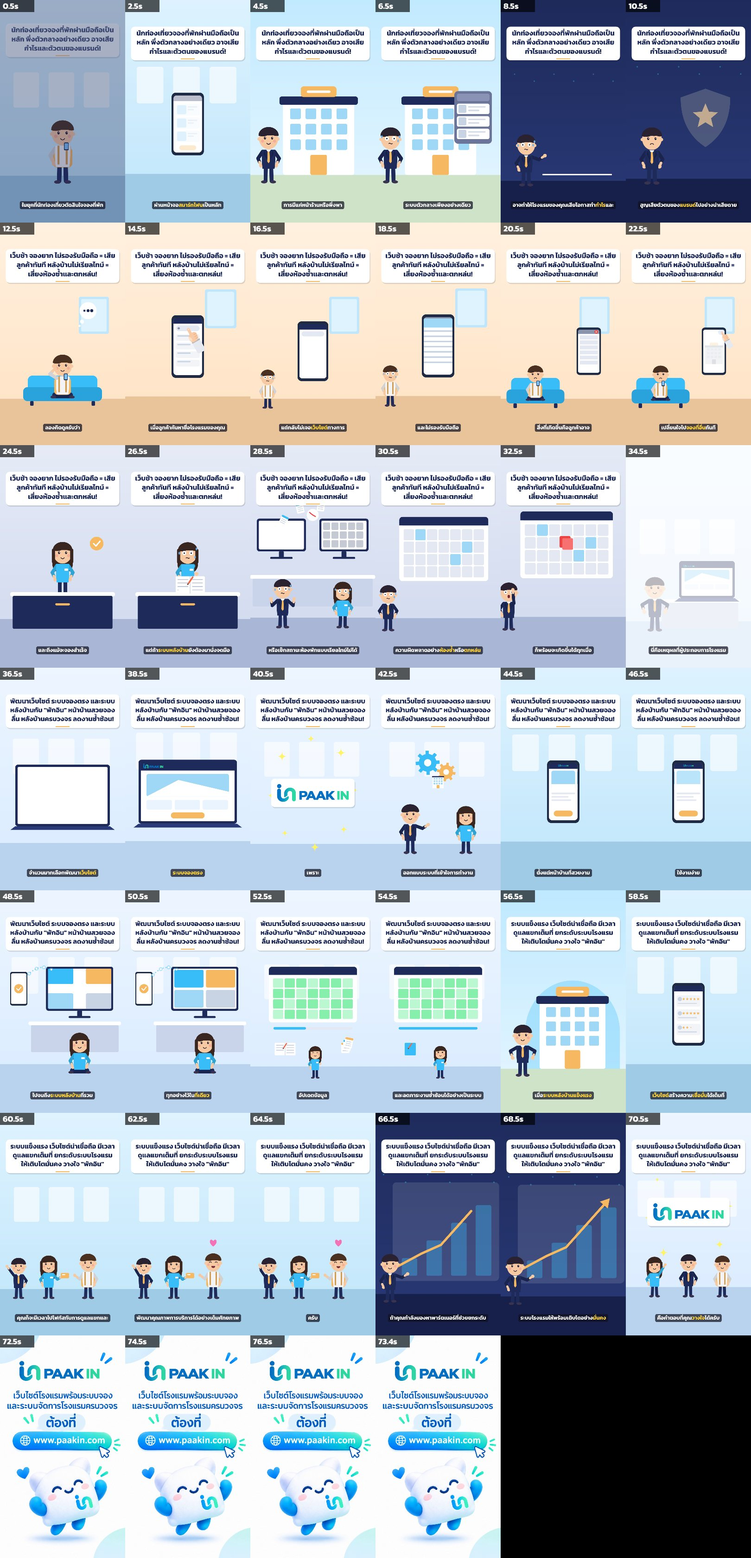
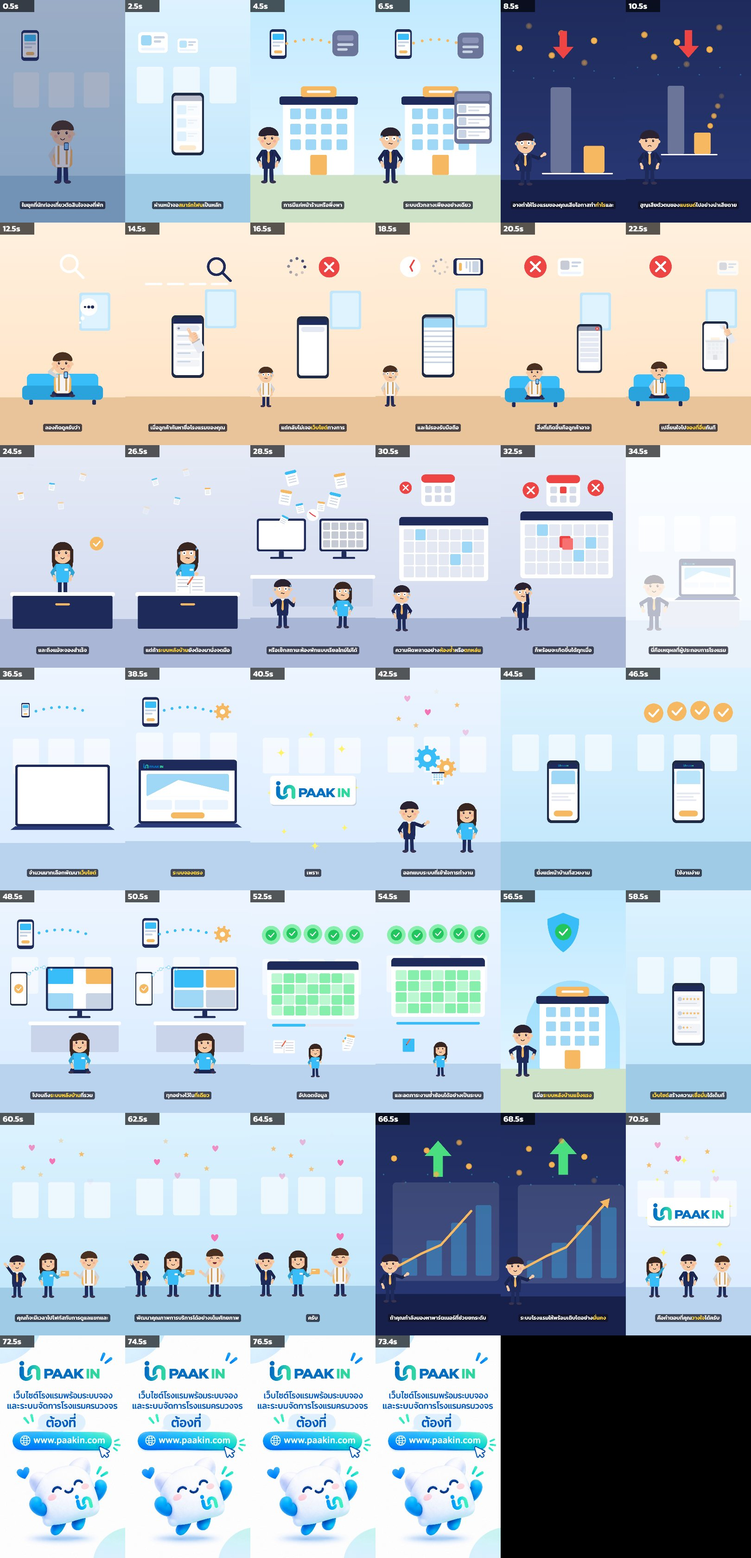
why-paakin: เอาการ์ดหัวข้อออก ใส่แอนิเมชันไอคอนแทน + บทเรียน L22
Claude-Session: https://claude.ai/code/session_01CrCPkFCVZwvw9KcpJnuXPU

diff --git a/jobs/20261122-why-paakin/shots.js b/jobs/20261122-why-paakin/shots.js
@@ -1,15 +1,11 @@
-// ทำไมต้องพักอิน — 26 ช็อตตาม shotlist.md (ข้อความในภาพมีแค่ H1–H4; UI ใช้แท่ง/ไอคอน L12)
+// ทำไมต้องพักอิน — 26 ช็อต; ไม่มีการ์ดหัวข้อ ด้านบนใช้แอนิเมชันไอคอน (ไม่มีข้อความ L12/L17)
 export default function (S) {
   const { shot, T, TW, prog, clamp, drawChar, logo, W, H,
-    headerCard, bizRoom, hotelFront, barChart, coin, iconBrand, star, spinner, xIcon, counter, notebook,
+    bizRoom, hotelFront, barChart, coin, iconBrand, star, spinner, xIcon, counter, notebook,
     fileIcon, monitor, laptop, siteMock, roomCalendar, syncLine, goldCheck, gear, growthChart, heart, keyCard, thinkIcon,
     sofa, bizDesk, phoneScreen, logoCard, check, sparkles } = S;
   S.keywords(['พักอิน', 'สมาร์ทโฟน', 'กำไร', 'แบรนด์', 'เว็บไซต์', 'จองที่อื่น', 'ห้องซ้ำ', 'ตกหล่น', 'ระบบจองตรง', 'ระบบหลังบ้าน', 'ที่เดียว', 'แข็งแรง', 'เชื่อมั่น', 'มั่นคง', 'วางใจ']);
 
-  const H1 = 'นักท่องเที่ยวจองที่พักผ่านมือถือเป็นหลัก พึ่งตัวกลางอย่างเดียว อาจเสียกำไรและตัวตนของแบรนด์!';
-  const H2 = 'เว็บช้า จองยาก ไม่รองรับมือถือ = เสียลูกค้าทันที หลังบ้านไม่เรียลไทม์ = เสี่ยงห้องซ้ำและตกหล่น!';
-  const H3 = 'พัฒนาเว็บไซต์ ระบบจองตรง และระบบหลังบ้านกับ "พักอิน" หน้าบ้านสวยจองลื่น หลังบ้านครบวงจร ลดงานซ้ำซ้อน!';
-  const H4 = 'ระบบแข็งแรง เว็บไซต์น่าเชื่อถือ มีเวลาดูแลแขกเต็มที่ ยกระดับระบบโรงแรมให้เติบโตมั่นคง วางใจ "พักอิน"';
   const NAVY = '#1e2a5a', SKYB = '#38bdf8', GOLD = '#f6b860';
   const on = (t, a, d = 0.4) => prog(t, a, d);
   const R = (ctx, x, y, w, h, r, c) => { ctx.fillStyle = c; ctx.beginPath(); ctx.roundRect(x, y, w, h, r); ctx.fill(); };
@@ -17,16 +13,52 @@ export default function (S) {
   // ทรานสิชัน (overlay ไม่ขยับตามกล้อง)
   const fadeFrom = (ctx, t, t0, color, d = 0.5) => { const a = 1 - prog(t, t0, d); if (a > 0) { ctx.fillStyle = color; ctx.globalAlpha = a; ctx.fillRect(0, 0, W, H); ctx.globalAlpha = 1; } };
   const slideFrom = (ctx, t, t0, dir = -1, d = 0.45) => { const k = prog(t, t0, d); if (k < 1) { ctx.fillStyle = NAVY; ctx.fillRect(dir < 0 ? -W * k : W * k, 0, W, H); } };
-  const hdr = (text, t0) => (ctx, lt, t) => headerCard(ctx, text, { k: on(t, t0, 0.5) });
-  const hold = (text) => (ctx) => headerCard(ctx, text, { k: 1 });
   const ov = (...fs) => (ctx, lt, t) => fs.forEach((f) => f(ctx, lt, t));
+
+  // ===== แอนิเมชันโซนบน (screen space y≈170–600) แทนการ์ดหัวข้อ =====
+  const pop = (t, t0, d = 0.45) => { const k = prog(t, t0, d); return k <= 0 ? 0 : k >= 1 ? 1 : 1 + Math.sin(k * Math.PI) * 0.25 * (1 - k) + (k - 1) * 0.0 - (1 - k) * (1 - k) * 0.6; };
+  const bob = (t, i, a = 14) => Math.sin(t * 2.2 + i * 1.7) * a;
+  const at = (ctx, x, y, sc, f) => { if (sc <= 0) return; sc *= 1.6; ctx.save(); ctx.translate(x, y); ctx.scale(sc, sc); f(ctx); ctx.restore(); };
+  const miniPhone = (c, col = SKYB) => { R(c, -46, -80, 92, 160, 18, NAVY); R(c, -38, -66, 76, 128, 8, '#ffffff'); R(c, -30, -56, 60, 34, 6, col); R(c, -30, -14, 60, 10, 5, '#c8d3e3'); R(c, -30, 4, 40, 10, 5, '#c8d3e3'); R(c, -22, 34, 44, 16, 8, GOLD); };
+  const appCard = (c, col = '#9fd8f7') => { R(c, -80, -56, 160, 112, 20, '#ffffff'); R(c, -64, -40, 56, 56, 12, col); R(c, 4, -34, 60, 12, 6, '#c8d3e3'); R(c, 4, -12, 40, 12, 6, '#c8d3e3'); R(c, -64, 28, 128, 14, 7, '#eaf4ff'); };
+  const grayApp = (c) => { R(c, -70, -70, 140, 140, 30, '#6b7499'); R(c, -44, -44, 88, 30, 10, '#8a93b5'); R(c, -44, 0, 88, 14, 7, '#c8d3e3'); R(c, -44, 26, 56, 14, 7, '#c8d3e3'); };
+  const mag = (c, col = '#ffffff') => { c.strokeStyle = col; c.lineWidth = 14; c.lineCap = 'round'; c.beginPath(); c.arc(0, 0, 44, 0, 7); c.stroke(); c.beginPath(); c.moveTo(32, 32); c.lineTo(76, 76); c.stroke(); };
+  const clock = (c, t, col = '#ef4444') => { c.fillStyle = '#ffffff'; c.beginPath(); c.arc(0, 0, 56, 0, 7); c.fill(); c.strokeStyle = col; c.lineWidth = 9; c.lineCap = 'round'; c.beginPath(); c.moveTo(0, 0); c.lineTo(Math.cos(t * 3) * 40, Math.sin(t * 3) * 40); c.moveTo(0, 0); c.lineTo(Math.cos(t * 0.4) * 24, Math.sin(t * 0.4) * 24); c.stroke(); };
+  const calIcon = (c, blink) => { R(c, -70, -60, 140, 130, 18, '#ffffff'); R(c, -70, -60, 140, 34, 18, '#ef4444'); for (let r = 0; r < 2; r++) for (let q = 0; q < 3; q++) R(c, -54 + q * 40, -12 + r * 38, 28, 28, 6, r === 0 && q === 1 && blink ? '#ef4444' : '#d5dbe8'); };
+  const arrowUp = (c, col = '#4ade80') => { c.fillStyle = col; c.beginPath(); c.moveTo(0, -80); c.lineTo(56, -16); c.lineTo(20, -16); c.lineTo(20, 70); c.lineTo(-20, 70); c.lineTo(-20, -16); c.lineTo(-56, -16); c.closePath(); c.fill(); };
+  const arrowDn = (c) => { c.save(); c.rotate(Math.PI); arrowUp(c, '#ef4444'); c.restore(); };
+  const shield = (c) => { c.fillStyle = SKYB; c.beginPath(); c.moveTo(0, -80); c.lineTo(66, -54); c.quadraticCurveTo(66, 40, 0, 84); c.quadraticCurveTo(-66, 40, -66, -54); c.closePath(); c.fill(); check(c, 0, 0, 34); };
+  const flowDots = (ctx, t, x1, x2, y, col = SKYB, n = 6, k = 1) => { for (let i = 0; i < n; i++) { const u = ((t * 0.6) + i / n) % 1; ctx.globalAlpha = k * Math.sin(u * Math.PI); ctx.fillStyle = col; ctx.beginPath(); ctx.arc(x1 + (x2 - x1) * u, y - Math.sin(u * Math.PI) * 40, 12, 0, 7); ctx.fill(); } ctx.globalAlpha = 1; };
+  const rise = (ctx, t, t0, f, n = 5, x0 = 200, x1 = 880, y0 = 600, y1 = 190) => { const k = prog(t, t0, 0.6); for (let i = 0; i < n; i++) { const u = ((t - t0) * 0.35 + i / n) % 1; ctx.globalAlpha = k * Math.sin(u * Math.PI); f(ctx, x0 + (x1 - x0) * ((i * 0.37) % 1), y0 + (y1 - y0) * u, i); } ctx.globalAlpha = 1; };
+  const FX = {
+    phones: (s0) => (ctx, lt, t) => [260, 540, 820].forEach((x, i) => at(ctx, x, 380 + bob(t, i), pop(t, s0 + 0.2 + i * 0.25) * (i === 1 ? 1.4 : 1.1), miniPhone)),
+    apps: (s0) => (ctx, lt, t) => { [240, 540, 840].forEach((x, i) => at(ctx, x, 380 + bob(t, i, 18), pop(t, s0 + 0.15 + i * 0.2), (c) => appCard(c, ['#9fd8f7', '#b9e4fa', '#7cc8f0'][i]))); star(ctx, 540 + Math.cos(t * 2) * 330, 230 + Math.sin(t * 2) * 30, 18 * prog(t, s0 + 0.8), GOLD); },
+    middle: (s0) => (ctx, lt, t) => { at(ctx, 820, 380 + bob(t, 0), pop(t, s0 + 0.3), grayApp); at(ctx, 240, 380, pop(t, s0 + 0.1), miniPhone); flowDots(ctx, t, 300, 740, 380, GOLD, 6, prog(t, s0 + 0.7)); },
+    loss: (s0) => (ctx, lt, t) => { rise(ctx, t, s0 + 0.2, (c, x, y) => coin(c, x, y, 28), 6, 160, 920, 200, 580); at(ctx, 540, 380 + bob(t, 0, 10), pop(t, s0 + 0.5), arrowDn); },
+    think: (s0) => (ctx, lt, t) => at(ctx, 540 + Math.cos(t * 1.4) * 260, 380 + Math.sin(t * 2.8) * 60, pop(t, s0 + 0.2), (c) => mag(c, '#ffffff')),
+    search: (s0) => (ctx, lt, t) => { at(ctx, 540 + Math.sin(t * 1.8) * 300, 380, pop(t, s0 + 0.1), (c) => mag(c, NAVY)); for (let i = 0; i < 4; i++) R(ctx, 170 + i * 190, 520, 150, 20, 10, `rgba(30,42,90,${0.25 * prog(t, s0 + 0.4 + i * 0.15)})`); },
+    nosite: (s0) => (ctx, lt, t) => { spinner(ctx, { x: 400, y: 380, r: 70, t, color: NAVY }); at(ctx, 680, 380 + bob(t, 1), pop(t, s0 + 1.0), (c) => xIcon(c, 0, 0, 56)); },
+    slow: (s0) => (ctx, lt, t) => { at(ctx, 300, 380 + bob(t, 0), pop(t, s0 + 0.1), (c) => clock(c, t)); spinner(ctx, { x: 560, y: 380, r: 60, t: t * 0.4, color: '#8a95ad' }); at(ctx, 800, 380 + bob(t, 2), pop(t, s0 + 0.5), (c) => { c.save(); c.rotate(Math.PI / 2); miniPhone(c, '#c8d3e3'); c.restore(); }); },
+    leave: (s0) => (ctx, lt, t) => { at(ctx, 300, 380, pop(t, s0 + 0.2), (c) => xIcon(c, 0, 0, 60)); const u = prog(t, s0 + 0.5, 1.2); at(ctx, 560 + 320 * u, 380 + bob(t, 1), 1 - 0.2 * u, (c) => { c.globalAlpha = 1 - 0.3 * u; c.save(); c.scale(0.9, 0.9); appCard(c, '#c4c9d4'); c.restore(); c.globalAlpha = 1; }); },
+    write: (s0) => (ctx, lt, t) => rise(ctx, t, s0 + 0.2, (c, x, y, i) => fileIcon(c, x, y, 0.5, i % 2 ? SKYB : GOLD, Math.sin(t + i) * 0.3), 5, 180, 900, 600, 190),
+    files: (s0) => (ctx, lt, t) => { for (let i = 0; i < 4; i++) { const a = t * 1.3 + i * Math.PI / 2; fileIcon(ctx, 540 + Math.cos(a) * 300, 380 + Math.sin(a) * 120, 0.55 * prog(t, s0 + 0.1 * i), i % 2 ? SKYB : GOLD, Math.sin(a) * 0.3); } },
+    clash: (s0) => (ctx, lt, t) => { const bl = Math.sin(t * 8) > 0; at(ctx, 540, 380 + Math.sin(t * 30) * (t > s0 + 0.5 ? 3 : 0), pop(t, s0 + 0.1) * 1.3, (c) => calIcon(c, bl)); [260, 820].forEach((x, i) => at(ctx, x, 380 + bob(t, i), pop(t, s0 + 0.4 + i * 0.2) * (bl ? 1 : 0.85), (c) => xIcon(c, 0, 0, 44))); },
+    gears: (s0) => (ctx, lt, t) => { const k = prog(t, s0 + 0.3, 0.6); gear(ctx, 430, 360, 80 * k, t, SKYB); gear(ctx, 570, 430, 60 * k, -t * 1.33 + 0.3, GOLD); sparkles(ctx, { x: 500, y: 390, r: 260, t, k }); },
+    sync: (s0) => (ctx, lt, t) => { at(ctx, 220, 380 + bob(t, 0), pop(t, s0 + 0.1), miniPhone); flowDots(ctx, t, 290, 760, 380, SKYB, 7, prog(t, s0 + 0.4)); gear(ctx, 840, 380, 64 * prog(t, s0 + 0.6, 0.5), t, GOLD); },
+    stars: (s0) => (ctx, lt, t) => { for (let i = 0; i < 6; i++) { const a = t * 0.8 + i * Math.PI / 3; star(ctx, 540 + Math.cos(a) * 380, 360 + Math.sin(a) * 120, 26 * prog(t, s0 + 0.2 + i * 0.1), i % 2 ? GOLD : '#ffffff'); } },
+    hearts: (s0) => (ctx, lt, t) => rise(ctx, t, s0 + 0.2, (c, x, y, i) => (i % 2 ? heart(c, x, y, 30) : star(c, x, y, 26, GOLD)), 7),
+    checks: (s0) => (ctx, lt, t) => { [240, 440, 640, 840].forEach((x, i) => at(ctx, x, 380 + bob(t, i, 12), 1, (c) => goldCheck(c, 0, 0, 52, prog(t, s0 + 0.2 + i * 0.3, 0.4)))); },
+    greens: (s0) => (ctx, lt, t) => { for (let i = 0; i < 5; i++) at(ctx, 180 + i * 180, 380 + bob(t, i, 10), pop(t, s0 + 0.2 + i * 0.25), (c) => { c.fillStyle = '#86efac'; c.beginPath(); c.arc(0, 0, 50, 0, 7); c.fill(); check(c, 0, 0, 30); }); },
+    shield: (s0) => (ctx, lt, t) => { at(ctx, 540, 370 + bob(t, 0, 10), pop(t, s0 + 0.4) * 1.3, shield); for (let i = 0; i < 6; i++) { const a = t * 0.9 + i * Math.PI / 3; star(ctx, 540 + Math.cos(a) * 260, 370 + Math.sin(a) * 140, 20 * prog(t, s0 + 0.8), GOLD); } },
+    grow: (s0) => (ctx, lt, t) => { at(ctx, 540, 390 + bob(t, 0, 16), pop(t, s0 + 0.3) * 1.3, (c) => arrowUp(c)); rise(ctx, t, s0 + 0.5, (c, x, y) => coin(c, x, y, 26), 6, 160, 920); },
+  };
 
   // ===== ฉาก 1 บริบท =====
   // 1 traveler ในล็อบบี้
   shot(T(0), (ctx, lt, t) => {
     bizRoom(ctx, 'lobby');
     drawChar(ctx, 'traveler', { x: 540, y: 1580, scale: 1.45, expr: 'happy', arms: { r: 'phone' }, prop: { type: 'phone' } });
-  }, { cam: (lt) => ({ x: 540, y: 1150, zoom: 1 + lt * 0.03 }), overlay: ov(hdr(H1, T(0) + 0.2), (ctx, lt, t) => fadeFrom(ctx, t, T(0), NAVY, 0.6)) });
+  }, { cam: (lt) => ({ x: 540, y: 1150, zoom: 1 + lt * 0.03 }), overlay: ov(FX.phones(T(0)), (ctx, lt, t) => fadeFrom(ctx, t, T(0), NAVY, 0.6)) });
 
   // 2 close มือถือ — การ์ดห้อง + แตะปุ่มส้ม
   shot(T(1), (ctx, lt, t) => {
@@ -38,7 +70,7 @@ export default function (S) {
       for (let i = 0; i < 3; i++) { const yy = -210 + i * 140 - 40 * lit; R(c, -125, yy, 250, 120, 16, '#eaf4ff'); R(c, -112, yy + 12, 96, 96, 12, '#9fd8f7'); R(c, 0, yy + 24, 100, 14, 7, '#c8d3e3'); R(c, 0, yy + 52, 64, 14, 7, '#c8d3e3'); }
       R(c, -90, 225, 180, 50, 25, GOLD); c.globalAlpha = 1;
     }, tap: t > tp - 0.3 ? { x: 0, y: 250, ring: prog(t, tp, 0.5), sleeve } : null });
-  }, { cam: { x: 540, y: 1110, zoom: 1.05 }, overlay: hold(H1) });
+  }, { cam: { x: 540, y: 1110, zoom: 1.05 }, overlay: FX.apps(T(1)) });
 
   // 3 หน้าโรงแรม + ไอคอนตัวกลาง
   shot(T(2), (ctx, lt, t) => {
@@ -50,7 +82,7 @@ export default function (S) {
       for (let i = 0; i < 3; i++) { R(ctx, -130, -110 + i * 100, 260, 84, 14, '#ffffff'); R(ctx, -118, -100 + i * 100, 64, 64, 10, '#c8d3e3'); R(ctx, -40, -90 + i * 100, 140, 12, 6, '#d5dbe8'); R(ctx, -40, -62 + i * 100, 90, 12, 6, '#d5dbe8'); }
       ctx.restore(); }
     drawChar(ctx, 'owner', { x: 200, y: 1600, scale: 1.2, expr: t > T(3) ? 'sweat' : 'happy' });
-  }, { cam: (lt) => ({ x: 540 + Math.min(lt, 2) * 20, y: 1100, zoom: 1.08 }), overlay: hold(H1) });
+  }, { cam: (lt) => ({ x: 540 + Math.min(lt, 2) * 20, y: 1100, zoom: 1.08 }), overlay: FX.middle(T(2)) });
 
   // 4 กราฟกำไร + แบรนด์จาง (ช็อตเดียว T(4)→T(7) ไม่ตัดภาพ)
   shot(T(4), (ctx, lt, t) => {
@@ -65,7 +97,7 @@ export default function (S) {
     ctx.restore();
     const ma = on(t, tb + 0.6, 0.5); if (ma > 0) { ctx.globalAlpha = ma; iconBrand(ctx, { x: 820, y: 1300, s: 0.9, fade: on(t, tb + 0.4, 1.2) }); ctx.globalAlpha = 1; }
     drawChar(ctx, 'owner', { x: 220, y: 1600, scale: 1.2, expr: t > tb ? 'sad' : 'sweat', arms: t > tb ? {} : { r: 'point' } });
-  }, { cam: (lt) => ({ x: 540, y: 1100, zoom: 1 + Math.min(lt, 5.2) * 0.012 }), overlay: hold(H1) });
+  }, { cam: (lt) => ({ x: 540, y: 1100, zoom: 1 + Math.min(lt, 5.2) * 0.012 }), overlay: FX.loss(T(4)) });
 
   // ===== ฉาก 2 ปัญหา =====
   // 6 traveler นั่งโซฟาคิด
@@ -73,7 +105,7 @@ export default function (S) {
     bizRoom(ctx, 'living'); sofa(ctx, { x: 540, y: 1580, w: 600 });
     drawChar(ctx, 'traveler', { x: 540, y: 1520, scale: 1.25, mode: 'sit', expr: 'happy', arms: { r: 'phone', l: 'cheek' }, prop: { type: 'phone' } });
     thinkIcon(ctx, 760, 760, on(t, T(7) + 0.3), t);
-  }, { overlay: ov(hdr(H2, T(7) + 0.2), (ctx, lt, t) => slideFrom(ctx, t, T(7), -1)) });
+  }, { cam: (lt) => ({ x: 540, y: 1100, zoom: 1.02 + Math.min(lt, 4) * 0.012 }), overlay: ov(FX.think(T(7)), (ctx, lt, t) => slideFrom(ctx, t, T(7), -1)) });
 
   // 7 ช่องค้นหา + แตะ
   const phoneAt = (ctx, draw, tap) => phoneScreen(ctx, { x: 540, y: 1110, s: 0.78, screen: 'custom', draw, tap });
@@ -85,7 +117,7 @@ export default function (S) {
       for (let i = 0; i < 4; i++) { c.globalAlpha = clamp(res * 4 - i, 0, 1); R(c, -125, -130 + i * 90 - 30 * (1 - res), 250, 70, 14, '#f2f4f8'); R(c, -110, -118 + i * 90 - 30 * (1 - res), 140, 14, 7, '#c8d3e3'); }
       c.globalAlpha = 1;
     }, t > tp - 0.3 ? { x: 0, y: -192, ring: prog(t, tp, 0.5), sleeve } : null);
-  }, { cam: { x: 540, y: 1110, zoom: 1.05 }, overlay: hold(H2) });
+  }, { cam: { x: 540, y: 1110, zoom: 1.05 }, overlay: FX.search(T(8)) });
 
   // 8 ไม่เจอเว็บไซต์ทางการ
   shot(T(9), (ctx, lt, t) => {
@@ -96,7 +128,7 @@ export default function (S) {
       if (k < 1) spinner(c, { x: 0, y: 20, r: 50, t }); // ผลลัพธ์ว่าง: โหลดแล้วจอว่าง
     });
     drawChar(ctx, 'traveler', { x: 150, y: 1600, scale: 0.9, expr: 'sweat' });
-  }, { overlay: hold(H2) });
+  }, { cam: (lt) => ({ x: 540, y: 1100, zoom: 1.02 + Math.min(lt, 4) * 0.012 }), overlay: FX.nosite(T(9)) });
 
   // 9 ฟอร์มซับซ้อน → spinner → หน้าเว็บล้นจอ
   shot(T(10), (ctx, lt, t) => {
@@ -111,7 +143,7 @@ export default function (S) {
       }
     });
     drawChar(ctx, 'traveler', { x: 150, y: 1600, scale: 0.9, expr: 'sweat' });
-  }, { cam: (lt) => ({ x: 540, y: 1110, zoom: 1 + Math.min(lt, 2.5) * 0.03 }), overlay: hold(H2) });
+  }, { cam: (lt) => ({ x: 540, y: 1110, zoom: 1 + Math.min(lt, 2.5) * 0.03 }), overlay: FX.slow(T(10)) });
 
   // 10 กดออก X → โรงแรมอื่นสีเทา
   shot(T(13), (ctx, lt, t) => {
@@ -122,7 +154,7 @@ export default function (S) {
       if (t < tp + 0.25) { R(c, -150, -300, 300, 60, 0, '#8a95ad'); for (let i = 0; i < 6; i++) R(c, -125, -220 + i * 70, 250, 54, 10, '#e3e8f2'); xIcon(c, 105, -270, 26); }
       else { c.globalAlpha = prog(t, tp + 0.25, 0.4); hotelFront(c, { x: 0, y: 180, s: 0.4, gray: 1, sign: 1 }); c.globalAlpha = 1; }
     }, tap: t > tp - 0.3 && t < tp + 0.8 ? { x: 105, y: -270, ring: prog(t, tp, 0.5), sleeve } : null });
-  }, { overlay: hold(H2) });
+  }, { cam: (lt) => ({ x: 540, y: 1100, zoom: 1.02 + Math.min(lt, 4) * 0.012 }), overlay: FX.leave(T(13)) });
 
   // 11 reception จองสำเร็จ → จดมือ
   shot(T(15), (ctx, lt, t) => {
@@ -132,7 +164,7 @@ export default function (S) {
     counter(ctx, { x: 540, y: 1600, w: 820, h: 300 });
     goldCheck(ctx, 820, 900, 56, on(t, T(15) + 0.2) * (t < T(16) + 0.4 ? 1 : 0));
     if (write) notebook(ctx, { x: 560, y: 1240, s: 0.8, write: ((t - TW(16, 'จดมือ')) * 0.8) % 1 });
-  }, { cam: (lt) => ({ x: 540, y: 1150 - Math.max(0, 0.4 - lt) * 200, zoom: 1.05 }), overlay: ov(hold(H2), (ctx, lt, t) => slideFrom(ctx, t, T(15), 1, 0.35)) });
+  }, { cam: (lt) => ({ x: 540, y: 1150 - Math.max(0, 0.4 - lt) * 200, zoom: 1.05 }), overlay: ov(FX.write(T(15)), (ctx, lt, t) => slideFrom(ctx, t, T(15), 1, 0.35)) });
 
   // 12 โต๊ะหลังบ้าน: แฟ้มสลับ 2 จอ → ปฏิทินเทา + นาฬิกา
   shot(T(17), (ctx, lt, t) => {
@@ -145,7 +177,7 @@ export default function (S) {
     bizDesk(ctx, { x: 540, y: 1180, w: 1000 });
     drawChar(ctx, 'owner', { x: 300, y: 1600, scale: 1.05, expr: 'sweat', arms: { l: 'shrug', r: 'shrug' } });
     drawChar(ctx, 'reception', { x: 780, y: 1600, scale: 1.0, expr: 'sweat' });
-  }, { cam: (lt) => ({ x: 560 - Math.min(lt, 2) * 10, y: 1100, zoom: 1.08 }), overlay: hold(H2) });
+  }, { cam: (lt) => ({ x: 560 - Math.min(lt, 2) * 10, y: 1100, zoom: 1.08 }), overlay: FX.files(T(17)) });
 
   // 13 ปฏิทินห้องซ้ำ/ตกหล่น
   shot(T(19), (ctx, lt, t) => {
@@ -156,7 +188,7 @@ export default function (S) {
     if (t > d) { const k = on(t, d, 0.35); R(ctx, c.x - c.w / 2 - 10 * k + sh, c.y - c.h / 2 - 8 * k, c.w, c.h, 10, '#ef4444'); R(ctx, c.x - c.w / 2 + 10 * k + sh, c.y - c.h / 2 + 8 * k, c.w, c.h, 10, '#f87171'); }
     if (t > f) { const c2 = cal.cell(5, 3), u = prog(t, f, 0.8); ctx.globalAlpha = 1 - u; R(ctx, c2.x - c2.w / 2, c2.y - c2.h / 2 + u * 260, c2.w, c2.h, 10, GOLD); ctx.globalAlpha = 1; }
     drawChar(ctx, 'owner', { x: 280, y: 1620, scale: 1.0, expr: 'sweat', arms: t > d ? { r: { x: 30, y: -330, bend: 'down' } } : {} });
-  }, { cam: (lt) => ({ x: 600, y: 1050, zoom: 1.05 + Math.min(lt, 2) * 0.03 }), overlay: hold(H2) });
+  }, { cam: (lt) => ({ x: 600, y: 1050, zoom: 1.05 + Math.min(lt, 2) * 0.03 }), overlay: FX.clash(T(19)) });
 
   // ===== ฉาก 3 พักอิน =====
   // 14 owner มั่นใจ มอง laptop
@@ -165,21 +197,21 @@ export default function (S) {
     bizDesk(ctx, { x: 640, y: 1330, w: 700 });
     laptop(ctx, { x: 700, y: 1300, w: 440, h: 280 }, (c, w, h) => siteMock(c, w, h, { k: 1, btn: 0, logo }));
     drawChar(ctx, 'owner', { x: 250, y: 1600, scale: 1.25, expr: 'happy', arms: { l: 'hips', r: 'hips' } });
-  }, { overlay: ov(hdr(H3, T(21) + 0.4), (ctx, lt, t) => fadeFrom(ctx, t, T(21), '#ffffff', 0.6)) });
+  }, { cam: (lt) => ({ x: 540, y: 1100, zoom: 1.02 + Math.min(lt, 4) * 0.012 }), overlay: ov(FX.gears(T(21)), (ctx, lt, t) => fadeFrom(ctx, t, T(21), '#ffffff', 0.6)) });
 
   // 15 laptop หน้าเว็บประกอบตัว → ปุ่มจอง → เชื่อมหลังบ้าน
   shot(T(22), (ctx, lt, t) => {
     bizRoom(ctx, 'office');
     laptop(ctx, { x: 540, y: 1360, w: 760, h: 480 }, (c, w, h) => siteMock(c, w, h, { k: on(t, TW(22, 'เว็บไซต์'), 1.2), btn: on(t, T(23), 0.4), logo }));
     if (t > T(24)) { const k = on(t, T(24), 0.6); syncLine(ctx, { x1: 540, y1: 800, x2: 900, y2: 660, t, k }); gear(ctx, 920, 640, 50 * k, t, SKYB); }
-  }, { cam: (lt) => ({ x: 540, y: 1150, zoom: 1.02 + Math.min(lt, 3) * 0.02 }), overlay: hold(H3) });
+  }, { cam: (lt) => ({ x: 540, y: 1150, zoom: 1.02 + Math.min(lt, 3) * 0.02 }), overlay: FX.sync(T(22)) });
 
   // 16 logo card
   shot(T(25), (ctx, lt, t) => {
     bizRoom(ctx, 'office');
     sparkles(ctx, { x: 540, y: 1080, r: 360, t, k: on(t, T(25) + 0.2) });
     logoCard(ctx, logo, { x: 540, y: 1080, w: 720, k: on(t, T(25), 0.45) });
-  }, { overlay: hold(H3) });
+  }, { cam: (lt) => ({ x: 540, y: 1100, zoom: 1.02 + Math.min(lt, 4) * 0.012 }), overlay: FX.stars(T(25)) });
 
   // 17 owner พยักหน้า reception ยิ้ม + เฟืองหมุนเข้ากัน
   shot(T(28), (ctx, lt, t) => {
@@ -189,7 +221,7 @@ export default function (S) {
     hotelFront(ctx, { x: 540, y: 1040, s: 0.16 * k, sign: 0 });
     drawChar(ctx, 'owner', { x: 300, y: 1600, scale: 1.15, expr: 'happy', arms: { r: 'point' } });
     drawChar(ctx, 'reception', { x: 780, y: 1600, scale: 1.1, expr: 'happy' });
-  }, { overlay: hold(H3) });
+  }, { cam: (lt) => ({ x: 540, y: 1100, zoom: 1.02 + Math.min(lt, 4) * 0.012 }), overlay: FX.hearts(T(28)) });
 
   // 18 มือถือหน้าเว็บโรงแรม → กดจอง → checkmark
   shot(T(30), (ctx, lt, t) => {
@@ -204,7 +236,7 @@ export default function (S) {
       R(c, -100, 200, 200, 60, 30, GOLD);
       if (done) { c.fillStyle = 'rgba(255,255,255,0.92)'; c.fillRect(-150, -300, 300, 600); goldCheck(c, 0, 0, 90, prog(t, tp + 0.3, 0.4)); }
     }, t > tp - 0.3 && t < tp + 0.7 ? { x: 0, y: 230, ring: prog(t, tp, 0.5), sleeve } : null);
-  }, { cam: { x: 540, y: 1110, zoom: 1.05 }, overlay: hold(H3) });
+  }, { cam: { x: 540, y: 1110, zoom: 1.05 }, overlay: FX.checks(T(30)) });
 
   // 19 sync มือถือ → dashboard
   shot(T(34), (ctx, lt, t) => {
@@ -218,7 +250,7 @@ export default function (S) {
     syncLine(ctx, { x1: 240, y1: 800, x2: 500, y2: 780, t, k: on(t, T(34), 0.6) });
     bizDesk(ctx, { x: 640, y: 1170, w: 760 });
     drawChar(ctx, 'reception', { x: 680, y: 1600, scale: 1.1, mode: 'sit', expr: 'happy' });
-  }, { cam: (lt) => ({ x: 540, y: 1100, zoom: 1.05 }), overlay: ov(hold(H3), (ctx, lt, t) => slideFrom(ctx, t, T(34), 1, 0.35)) });
+  }, { cam: (lt) => ({ x: 540, y: 1100, zoom: 1.05 }), overlay: ov(FX.sync(T(34)), (ctx, lt, t) => slideFrom(ctx, t, T(34), 1, 0.35)) });
 
   // 20 ปฏิทินเรียบร้อย + แถบอัปเดต + แฟ้มยุบ สมุดปิด
   shot(T(36), (ctx, lt, t) => {
@@ -231,7 +263,7 @@ export default function (S) {
     for (let i = 0; i < 3; i++) if (shrink > 0) fileIcon(ctx, 820 + i * 14, 1360 - i * 22, 0.7 * shrink, i % 2 ? SKYB : GOLD, 0.1 * i);
     notebook(ctx, { x: 300, y: 1370, s: 0.6, open: t > T(38) + 0.4 ? 0 : 1 });
     drawChar(ctx, 'reception', { x: 560, y: 1620, scale: 0.75, expr: 'happy', arms: { r: 'hold' } });
-  }, { overlay: hold(H3) });
+  }, { cam: (lt) => ({ x: 540, y: 1100, zoom: 1.02 + Math.min(lt, 4) * 0.012 }), overlay: FX.greens(T(36)) });
 
   // ===== ฉาก 4 ผลลัพธ์ =====
   // 21 โรงแรมทั้งหลัง โล่ฟ้า
@@ -239,7 +271,7 @@ export default function (S) {
     bizRoom(ctx, 'front');
     hotelFront(ctx, { x: 620, y: 1540, s: 0.95, sign: 1, shield: on(t, T(39) + 0.3, 0.8) });
     drawChar(ctx, 'owner', { x: 190, y: 1600, scale: 1.2, expr: 'happy', arms: { l: 'hips', r: 'hips' } });
-  }, { cam: (lt) => ({ x: 540, y: 960, zoom: 1.25 - 0.25 * prog(lt, 0, 0.8) }), overlay: hdr(H4, T(39) + 0.3) });
+  }, { cam: (lt) => ({ x: 540, y: 960, zoom: 1.25 - 0.25 * prog(lt, 0, 0.8) }), overlay: FX.shield(T(39)) });
 
   // 22 รีวิวดาว
   shot(T(40), (ctx, lt, t) => {
@@ -251,7 +283,7 @@ export default function (S) {
         for (let i = 0; i < 5; i++) { const kk = clamp((t - k0) * 4 - r * 2 - i * 0.6, 0, 1); if (kk > 0) { c.save(); c.translate(-50 + i * 38, -160 + r * 150); c.scale(kk, kk); star(c, 0, 0, 16, GOLD); c.restore(); } }
         R(c, -110, -120 + r * 150, 200, 12, 6, '#d5dbe8'); }
     });
-  }, { cam: { x: 540, y: 1110, zoom: 1.05 }, overlay: hold(H4) });
+  }, { cam: { x: 540, y: 1110, zoom: 1.05 }, overlay: FX.stars(T(40)) });
 
   // 23 ล็อบบี้ ยื่นคีย์การ์ด
   shot(T(41), (ctx, lt, t) => {
@@ -263,14 +295,14 @@ export default function (S) {
     const nod = t > T(42) ? Math.max(0, Math.sin((t - T(42)) * 6)) * 6 : 0;
     drawChar(ctx, 'traveler', { x: 760, y: 1600 + nod, scale: 1.05, expr: t > T(42) ? 'laugh' : 'happy', dir: -1, arms: { l: { x: -110, y: -190, bend: 'down' } } });
     if (t > T(42)) { const k = on(t, T(42), 0.5); ctx.save(); ctx.translate(760, 1170 - k * 50); ctx.scale(k, k); heart(ctx, 0, 0, 34); ctx.restore(); }
-  }, { overlay: hold(H4) });
+  }, { cam: (lt) => ({ x: 540, y: 1100, zoom: 1.02 + Math.min(lt, 4) * 0.012 }), overlay: FX.hearts(T(41)) });
 
   // 24 กราฟเติบโต
   shot(T(44), (ctx, lt, t) => {
     bizRoom(ctx, 'navy');
     growthChart(ctx, { x: 600, y: 1420, w: 760, h: 680, k: on(t, T(44), 2.2), arrow: on(t, T(45), 0.5) });
     drawChar(ctx, 'owner', { x: 170, y: 1620, scale: 1.0, expr: 'happy', arms: { r: 'point' } });
-  }, { cam: (lt) => ({ x: 540, y: 1100 - Math.min(lt, 2.4) * 40, zoom: 1.12 }), overlay: hold(H4) });
+  }, { cam: (lt) => ({ x: 540, y: 1100 - Math.min(lt, 2.4) * 40, zoom: 1.12 }), overlay: FX.grow(T(44)) });
 
   // 25 logo card + ตัวละครสามคน ซูมออกช้า
   shot(T(46), (ctx, lt, t) => {
@@ -280,6 +312,6 @@ export default function (S) {
     drawChar(ctx, 'owner', { x: 540, y: 1600, scale: 0.95, expr: 'happy' });
     drawChar(ctx, 'reception', { x: 260, y: 1600, scale: 0.9, expr: 'happy', arms: { r: 'wave' } });
     drawChar(ctx, 'traveler', { x: 820, y: 1600, scale: 0.92, expr: 'happy', dir: -1 });
-  }, { cam: (lt) => ({ x: 540, y: 1100, zoom: 1.1 - 0.1 * prog(lt, 0, 2.2) }), overlay: hold(H4) });
+  }, { cam: (lt) => ({ x: 540, y: 1100, zoom: 1.1 - 0.1 * prog(lt, 0, 2.2) }), overlay: FX.hearts(T(46)) });
   // 26 end card: player วาดเองหลัง VO_DUR
 }

diff --git a/knowledge/lessons.md b/knowledge/lessons.md
@@ -26,3 +26,4 @@
 | L19 | ฉากเต็มจอวาดในบอลลูน/วงกลมโดยไม่ย่อ → เห็นแค่ 1/4 ที่เหลือขาว | ฉากที่วาดด้วยพิกัดเต็มจอ ต้อง scale (2r/1080) + translate ให้คลุมเต็มวงก่อนวาดใน thoughtBubble/กรอบใดๆ | animator, critic, qa | 2026-11-13 |
 | L20 | มือ/นิ้วแตะจอดูไม่สื่อ (แท่งสีผิว, ประกอบสี่เหลี่ยมหลายชิ้นดูแปลก) | ใช้ `pointHand` ใน phoneScreen ผ่าน `tap:{x,y,ring}` เท่านั้น: ซิลลูเอตโค้งเรียบชิ้นเดียว นิ้วชี้มีเล็บ นิ้วที่เหลือกำ + แขนเสื้อสีตัวละคร ปลายนิ้วตรงจุดแตะ + วงกระเพื่อม — ห้ามวาดมือเองจากกล่องสี่เหลี่ยม ตรวจภาพขยายใกล้ก่อน export | animator, critic, qa | 2026-11-14 |
 | L21 | ภาพเปลี่ยนเร็วเกินคำบรรยาย (ประโยคเดียวถูกตัดเป็น 2 ช็อตห่าง ~1 วิ, แอนิเมชันเริ่มตอนใกล้ตัด) | ห้ามตัดช็อตกลางประโยค — ประโยคที่ต่อเนื่อง (วลีลงท้าย "และ/แต่") ใช้ช็อตเดียว เพิ่มองค์ประกอบในเฟรมเดิมแทนการตัด; แต่ละช็อตค้าง ≥2.5 วิ และแอนิเมชันหลักต้องเสร็จ ≥1 วิ ก่อนตัด | film-director, animator, critic, qa | 2026-11-22 |
+| L22 | การ์ดข้อความหัวข้อสรุปในภาพแย่งความสนใจจากเนื้อหาและเสียง | ไม่ใส่การ์ดข้อความ/หัวข้อในภาพ (แม้บรีฟให้ข้อความสรุปมา) — ใช้แอนิเมชันไอคอนสื่อความแทน ข้อความบนจอมีแค่ซับล่างตามบทพูด | film-director, animator, critic | 2026-11-22 |

diff --git a/jobs/20261122-why-paakin/handoff.md b/jobs/20261122-why-paakin/handoff.md
@@ -1,5 +1,6 @@
-# handoff (sound, fix-clip)
-- เพิ่มสไตล์ `ukulele` ใน engine/audio/music.py (Karplus-Strong GCEA, I-V-vi-IV, เบส + บล็อกไม้/ทิก tonal ไม่มี noise); พารามิเตอร์ต่อ segment: level, bpm, shift, gain
-- audio_plan.json: ukulele ทั้งคลิป level 0.4/0.3/0.95/0.2/0.9 ตามฉาก; คง mutes, sfx, ducking, เสียงปิด
-- mix.mp3 ยาว 78.28 วิ เท่าเดิม; pytest 66 ผ่าน
-- ถัดไป: ให้ผู้ใช้ฟังอนุมัติ แล้ว render out.mp4 ใหม่ (เสียงเปลี่ยน)
+# handoff (animator, fix-clip)
+- ลบการ์ดหัวข้อ H1–H4 ทุกช็อต (ซับล่างคงเดิม); เพิ่ม FX โซนบน (screen space y≈170–600) ทุกช็อต ไม่มีข้อความ/ตัวเลข
+- FX อยู่ใน shots.js (object `FX`): phones, apps, middle, loss, think, search, nosite, slow, leave, write, files, clash, gears, sync, stars, hearts, checks, greens, shield, grow
+- ช็อตที่เคยไม่มี cam ได้ซูมช้า 1.02→~1.07; แอนิเมชันป๊อปเสร็จภายใน ~1.5 วิแรกของช็อต แล้ววนลอย/หมุนต่อเนื่อง
+- contact.jpg อัปเดต (--every 2); node --test web ผ่าน 11/11
+- ถัดไป: critic ตรวจ แล้ว render out.mp4 ใหม่ (เสียงก็เปลี่ยนจากรอบ sound)
